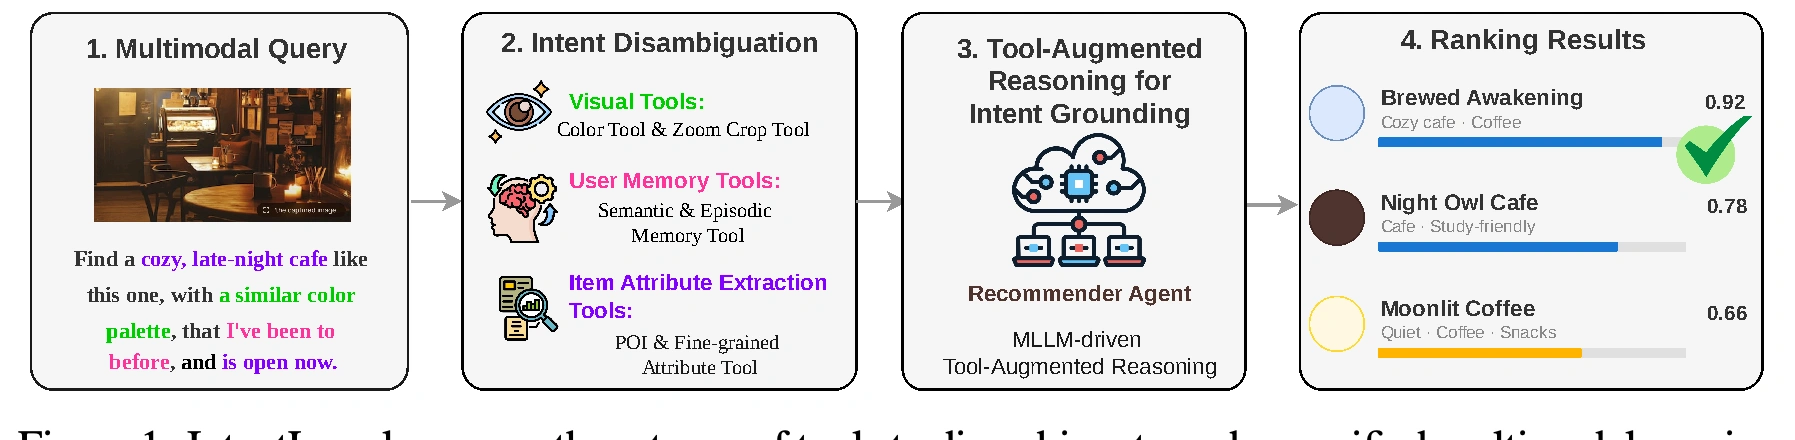
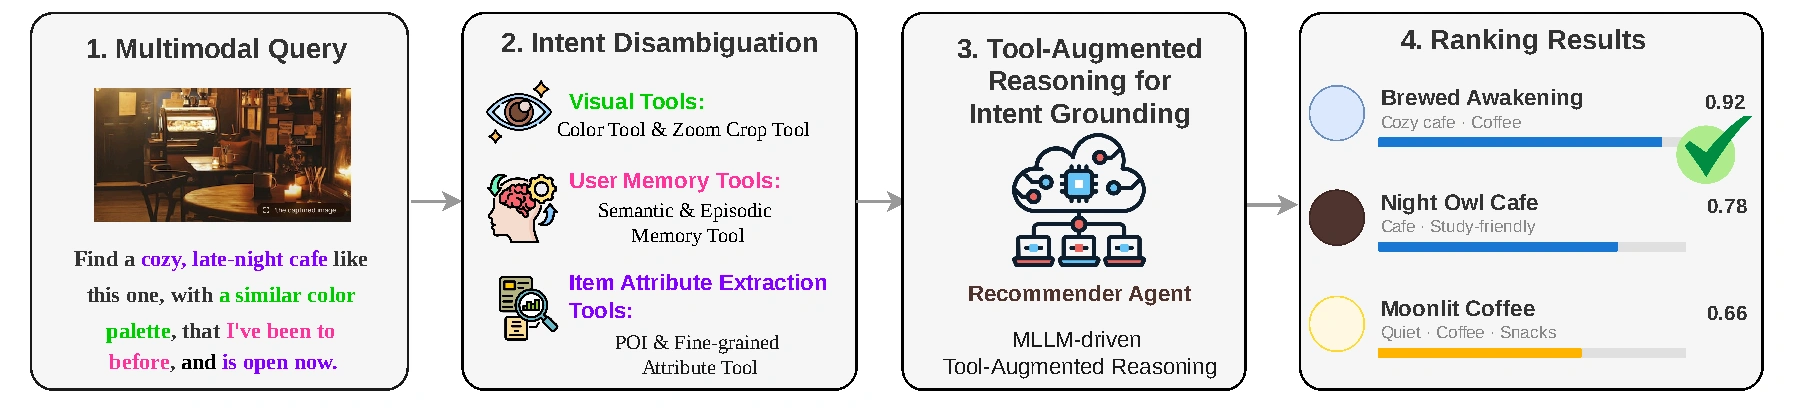
Clean bottom crop of IntentLens teaser figure

diff --git a/IntentLens/index.html b/IntentLens/index.html
@@ -9,7 +9,7 @@
   <meta property="og:description" content="A photo. A vague request. A recommendation grounded in evidence. NeurIPS 2026.">
   <meta property="og:type" content="website">
   <meta property="og:url" content="https://shawnchenn.github.io/IntentLens/">
-  <meta property="og:image" content="https://shawnchenn.github.io/IntentLens/assets/teaser.webp">
+  <meta property="og:image" content="https://shawnchenn.github.io/IntentLens/assets/teaser.webp?v=2">
   <meta name="theme-color" content="#315cc5">
   <link rel="icon" href="assets/favicon.svg" type="image/svg+xml">
   <link rel="canonical" href="https://shawnchenn.github.io/IntentLens/">
@@ -37,7 +37,7 @@
     <a class="button" href="#citation">BibTeX <span aria-hidden="true">↓</span></a>
   </div>
   <p class="hero-statement">A photo. A vague request.<br><strong>A recommendation grounded in evidence.</strong></p>
-  <figure class="teaser"><a href="assets/teaser.webp" target="_blank" rel="noopener" aria-label="Open IntentLens overview figure at full resolution"><img src="assets/teaser.webp" width="1796" height="440" alt="A reference café image and a vague request are resolved with visual tools, user memory and item attributes, then used to rank matching cafés."></a><figcaption>Go beyond what the user says. Recover visual preferences, personal context, and item constraints <strong>before ranking.</strong></figcaption></figure>
+  <figure class="teaser"><a href="assets/teaser.webp?v=2" target="_blank" rel="noopener" aria-label="Open IntentLens overview figure at full resolution"><img src="assets/teaser.webp?v=2" width="1795" height="413" alt="A reference café image and a vague request are resolved with visual tools, user memory and item attributes, then used to rank matching cafés."></a><figcaption>Go beyond what the user says. Recover visual preferences, personal context, and item constraints <strong>before ranking.</strong></figcaption></figure>
 </header>
 <section class="abstract band" id="abstract"><div class="prose">
   <p class="eyebrow">The idea</p><h2>Abstract</h2>
